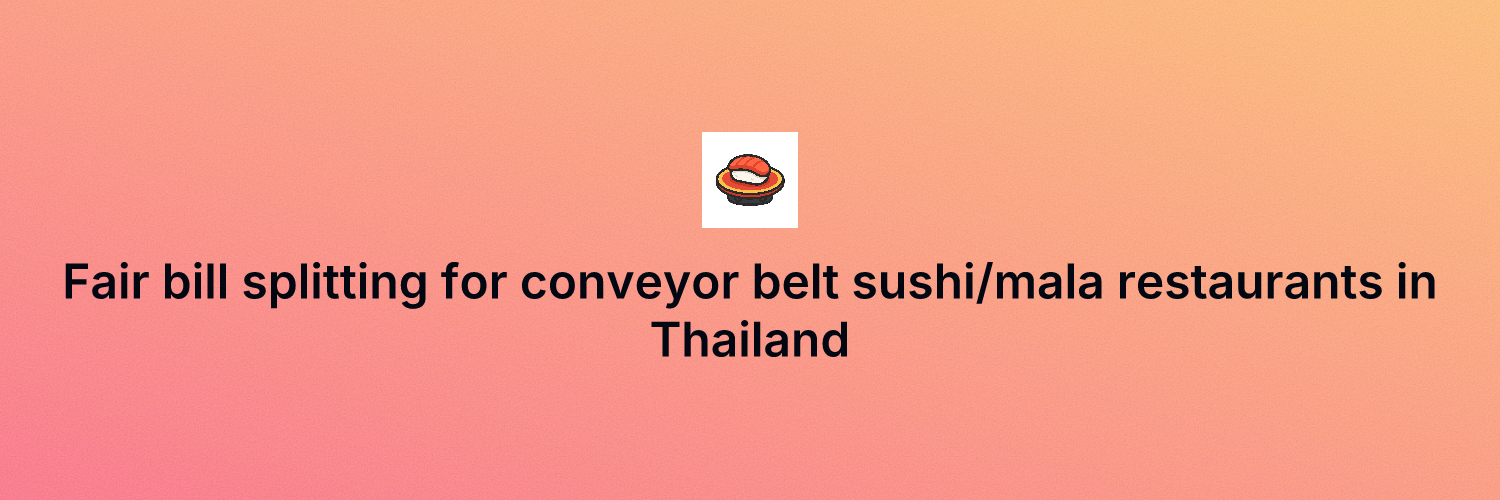
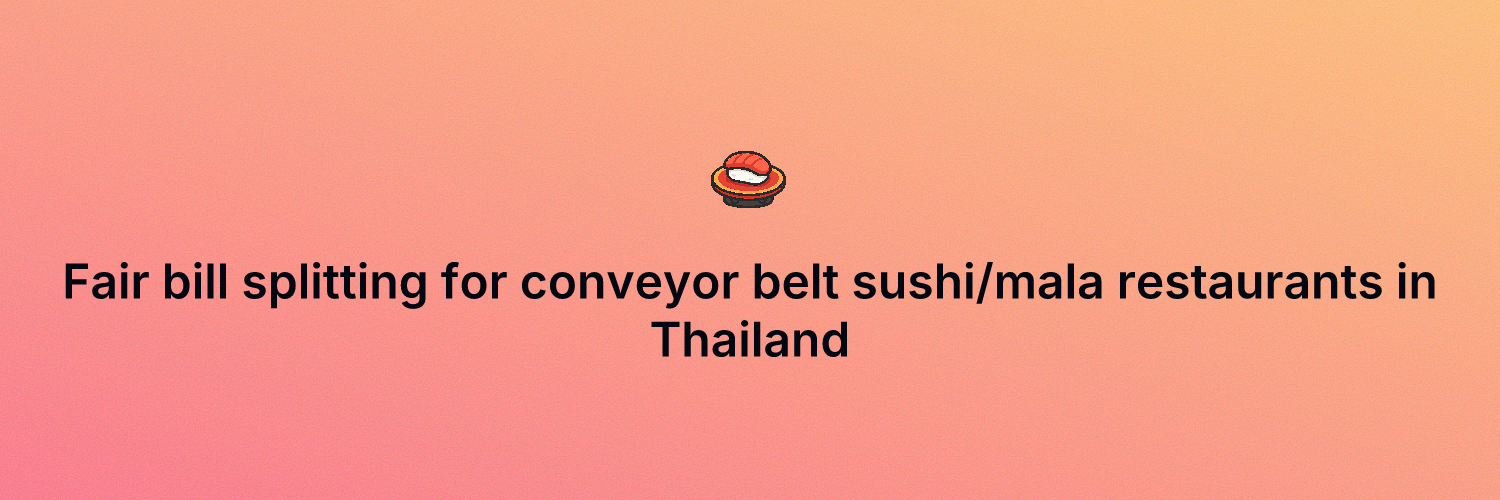
Complete Thai localization and update branding
- Translate all page titles and meta descriptions to Thai
- Update SEO meta tags with Thai content for better local search
- Translate footer text from English to Thai
- Replace favicon.svg with new logo-trans.png logo
- Update social media preview images with Thai content
- Improve structured data with Thai descriptions

🤖 Generated with [Claude Code](https://claude.ai/code)

Changed region(s): [[0.46, 0.24, 0.552, 0.48]]

diff --git a/index.html b/index.html
@@ -3,17 +3,17 @@
 <head>
     <meta charset="UTF-8">
     <meta name="viewport" content="width=device-width, initial-scale=1.0, maximum-scale=1.0, user-scalable=no">
-    <title>Kaiten Share Calculator - Split Your Sushi/Mala Bill Easily | Sushiro & Katsu Midori & Yijia Suki Mala hot pot</title>
-    <meta name="description" content="Free online bill calculator for conveyor belt sushi/mala restaurants. Split bills fairly among friends at Sushiro, Katsu Midori, Yijia Suki Mala hot pot and other kaiten sushi/mala chains in Thailand.">
-    <meta name="keywords" content="sushi bill calculator, kaiten sushi, conveyor belt sushi, bill splitter, Sushiro, Katsu Midori, Yijia Suki Mala, Thailand, sushi restaurant, group dining">
+    <title>Kaiten Share Calculator - คำนวณเงินค่าซูชิ/หม่าล่าสายพาน แบบกินคนเดียวและแชร์กันจ่าย</title>
+    <meta name="description" content="ไปกินซูชิสายพานกับเพื่อน ไม่ต้องหารเองให้ปวดหัว ใช้แอพนี้คิดได้เลย ทั้ง Sushiro, Katsu Midori, Yijia Suki Mala และร้านอาหารซูชิ/หม่าล่าอื่นๆ ในประเทศไทย">
+    <meta name="keywords" content="เว็บคำนวณบิลซูชิ, ซูชิสายพาน, แบ่งบิล, แชร์บิล, Sushiro, Katsu Midori, Yijia Suki Mala, ประเทศไทย, ร้านซูชิ, การรับประทานอาหารเป็นกลุ่ม">
     <meta name="author" content="Kaiten Share Calculator">
     <meta name="robots" content="index, follow">
     
     <!-- Open Graph / Facebook -->
     <meta property="og:type" content="website">
     <meta property="og:url" content="https://kaiten.myifew.com/">
-    <meta property="og:title" content="Kaiten Share Calculator - Split Your Sushi/Mala Bill Easily">
-    <meta property="og:description" content="Free online bill calculator for conveyor belt sushi/mala restaurants. Split bills fairly among friends at Sushiro, Katsu Midori, Yijia Suki Mala hot pot and other kaiten sushi/mala chains.">
+    <meta property="og:title" content="Kaiten Share Calculator - คำนวณเงินค่าซูชิ/หม่าล่าสายพาน แบบกินคนเดียวและแชร์กันจ่าย">
+    <meta property="og:description" content="ไปกินซูชิสายพานกับเพื่อน ไม่ต้องหารเองให้ปวดหัว ใช้แอพนี้คิดได้เลย ทั้ง Sushiro, Katsu Midori, Yijia Suki Mala และร้านอาหารซูชิ/หม่าล่าอื่นๆ ในประเทศไทย">
     <meta property="og:image" content="https://kaiten.myifew.com/og.png">
     <meta property="og:locale" content="en_US">
     <meta property="og:site_name" content="Kaiten Share Calculator">
@@ -21,8 +21,8 @@
     <!-- Twitter -->
     <meta property="twitter:card" content="summary_large_image">
     <meta property="twitter:url" content="https://kaiten.myifew.com/">
-    <meta property="twitter:title" content="Kaiten Share Calculator - Split Your Sushi/Mala Bill Easily">
-    <meta property="twitter:description" content="Free online bill calculator for conveyor belt sushi/mala restaurants. Split bills fairly among friends at Sushiro, Katsu Midori, Yijia Suki Mala hot pot and other kaiten sushi/mala chains.">
+    <meta property="twitter:title" content="Kaiten Share Calculator - คำนวณเงินค่าซูชิ/หม่าล่าสายพาน แบบกินคนเดียวและแชร์กันจ่าย">
+    <meta property="twitter:description" content="ไปกินซูชิสายพานกับเพื่อน ไม่ต้องหารเองให้ปวดหัว ใช้แอพนี้คิดได้เลย ทั้ง Sushiro, Katsu Midori, Yijia Suki Mala และร้านอาหารซูชิ/หม่าล่าอื่นๆ ในประเทศไทย">
     <meta property="twitter:image" content="https://kaiten.myifew.com/twitter.png">
 
     <!-- Favicon -->
@@ -45,7 +45,7 @@
         "@context": "https://schema.org",
         "@type": "WebApplication",
         "name": "Kaiten Share Calculator",
-        "description": "Free online bill calculator for conveyor belt sushi/mala restaurants. Split bills fairly among friends at Sushiro, Katsu Midori, Yijia Suki Mala hot pot and other kaiten sushi/mala chains in Thailand.",
+        "description": "เครื่องคำนวณบิลซูชิ/หม่าล่าสายพานออนไลน์ฟรี แบ่งบิลอย่างยุติธรรมระหว่างเพื่อนที่ Sushiro, Katsu Midori, Yijia Suki Mala และร้านอาหารซูชิ/หม่าล่าอื่นๆ ในประเทศไทย",
         "url": "https://kaiten.myifew.com/",
         "applicationCategory": "UtilityApplication",
         "operatingSystem": "Web Browser",
@@ -64,7 +64,7 @@
         "about": {
             "@type": "Thing",
             "name": "Conveyor Belt Sushi/Mala Restaurants",
-            "description": "Kaiten sushi/mala restaurants in Thailand including Sushiro, Katsu Midori, and Yijia Suki Mala hot pot"
+            "description": "ไปกินซูชิสายพานกับเพื่อน ไม่ต้องหารเองให้ปวดหัว ใช้แอพนี้คิดได้เลย ทั้ง Sushiro, Katsu Midori, Yijia Suki Mala และร้านอาหารซูชิ/หม่าล่าอื่นๆ ในประเทศไทย"
         }
     }
     </script>
@@ -156,7 +156,7 @@
     <div id="restaurant-selection" class="hidden container mx-auto px-4 py-8">
         <header class="text-center mb-8">
             <h1 class="text-3xl font-bold text-gray-800 mb-2 flex items-center justify-center gap-3">
-                <img src="/favicon.svg" alt="Kaiten Share Calculator Logo" style="width: 5rem; height: 5rem;">
+                <img src="/logo-trans.png" alt="Kaiten Share Calculator Logo" style="width: 5rem; height: 5rem;">
                 Kaiten Share Calculator
             </h1>
             <p class="text-gray-600 mb-4">คำนวณเงินค่าซูชิ/หม่าล่าสายพาน แบบกินคนเดียวและแชร์กันจ่าย</p>
@@ -317,11 +317,11 @@
                 <h3 class="text-lg font-semibold mb-2">Kaiten Share Calculator</h3>
                 <p class="text-gray-400 mb-4">Free online bill calculator for conveyor belt sushi/mala restaurants</p>
                 <div class="flex justify-center space-x-6 text-sm text-gray-400 mb-4">
-                    <span>No registration required</span>
+                    <span>ไม่ต้องลงทะเบียน</span>
                     <span>•</span>
-                    <span>No save any your information</span>
+                    <span>ไม่เก็บข้อมูล</span>
                     <span>•</span>
-                    <span>Mobile-friendly</span>
+                    <span>ใช้งานง่ายบนมือถือ</span>
                 </div>
                 <p class="text-sm text-gray-500">
                     ❤ Made with love eat by <a href="https://myifew.com" target="_blank" rel="noopener noreferrer" class="text-blue-400 hover:text-blue-300 transition-colors">iFew</a> and Coding by Claude AI
